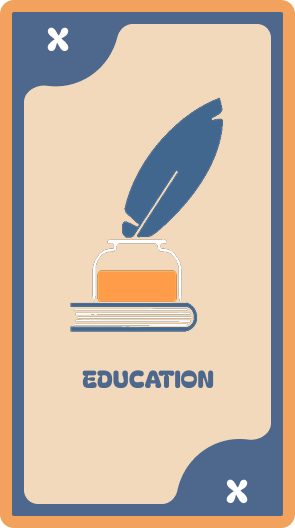
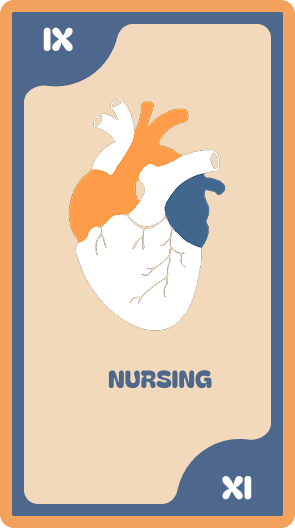
wrong cards. Check description. Fixed

diff --git a/frontend/src/screens/PassionScreen.tsx b/frontend/src/screens/PassionScreen.tsx
@@ -25,7 +25,7 @@ const defaultPassions: PassionItem[] = [
   { key: 'design_creative', label: 'DESIGN &\nCREATIVE ARTS', img: '/asq/passion/Design & Creative Arts.png', isFullCard: true },
   { key: 'law', label: 'LAW', img: '/asq/passion/Law.png', isFullCard: true },
   { key: 'nursing', label: 'NURSING', img: '/asq/passion/Nursing.png', isFullCard: true },
-  { key: 'education', label: 'EDUCATION', img: '/asq/passion/Rectangle 72.png', isFullCard: true },
+  { key: 'education', label: 'EDUCATION', img: '/asq/passion/Education.png', isFullCard: true },
   { key: 'social_work', label: 'SOCIAL WORK', img: '/asq/passion/Social Work.png', isFullCard: true },
   { key: 'other', label: 'OTHER', img: '/asq/passion/Other.png', isFullCard: true },
 ]